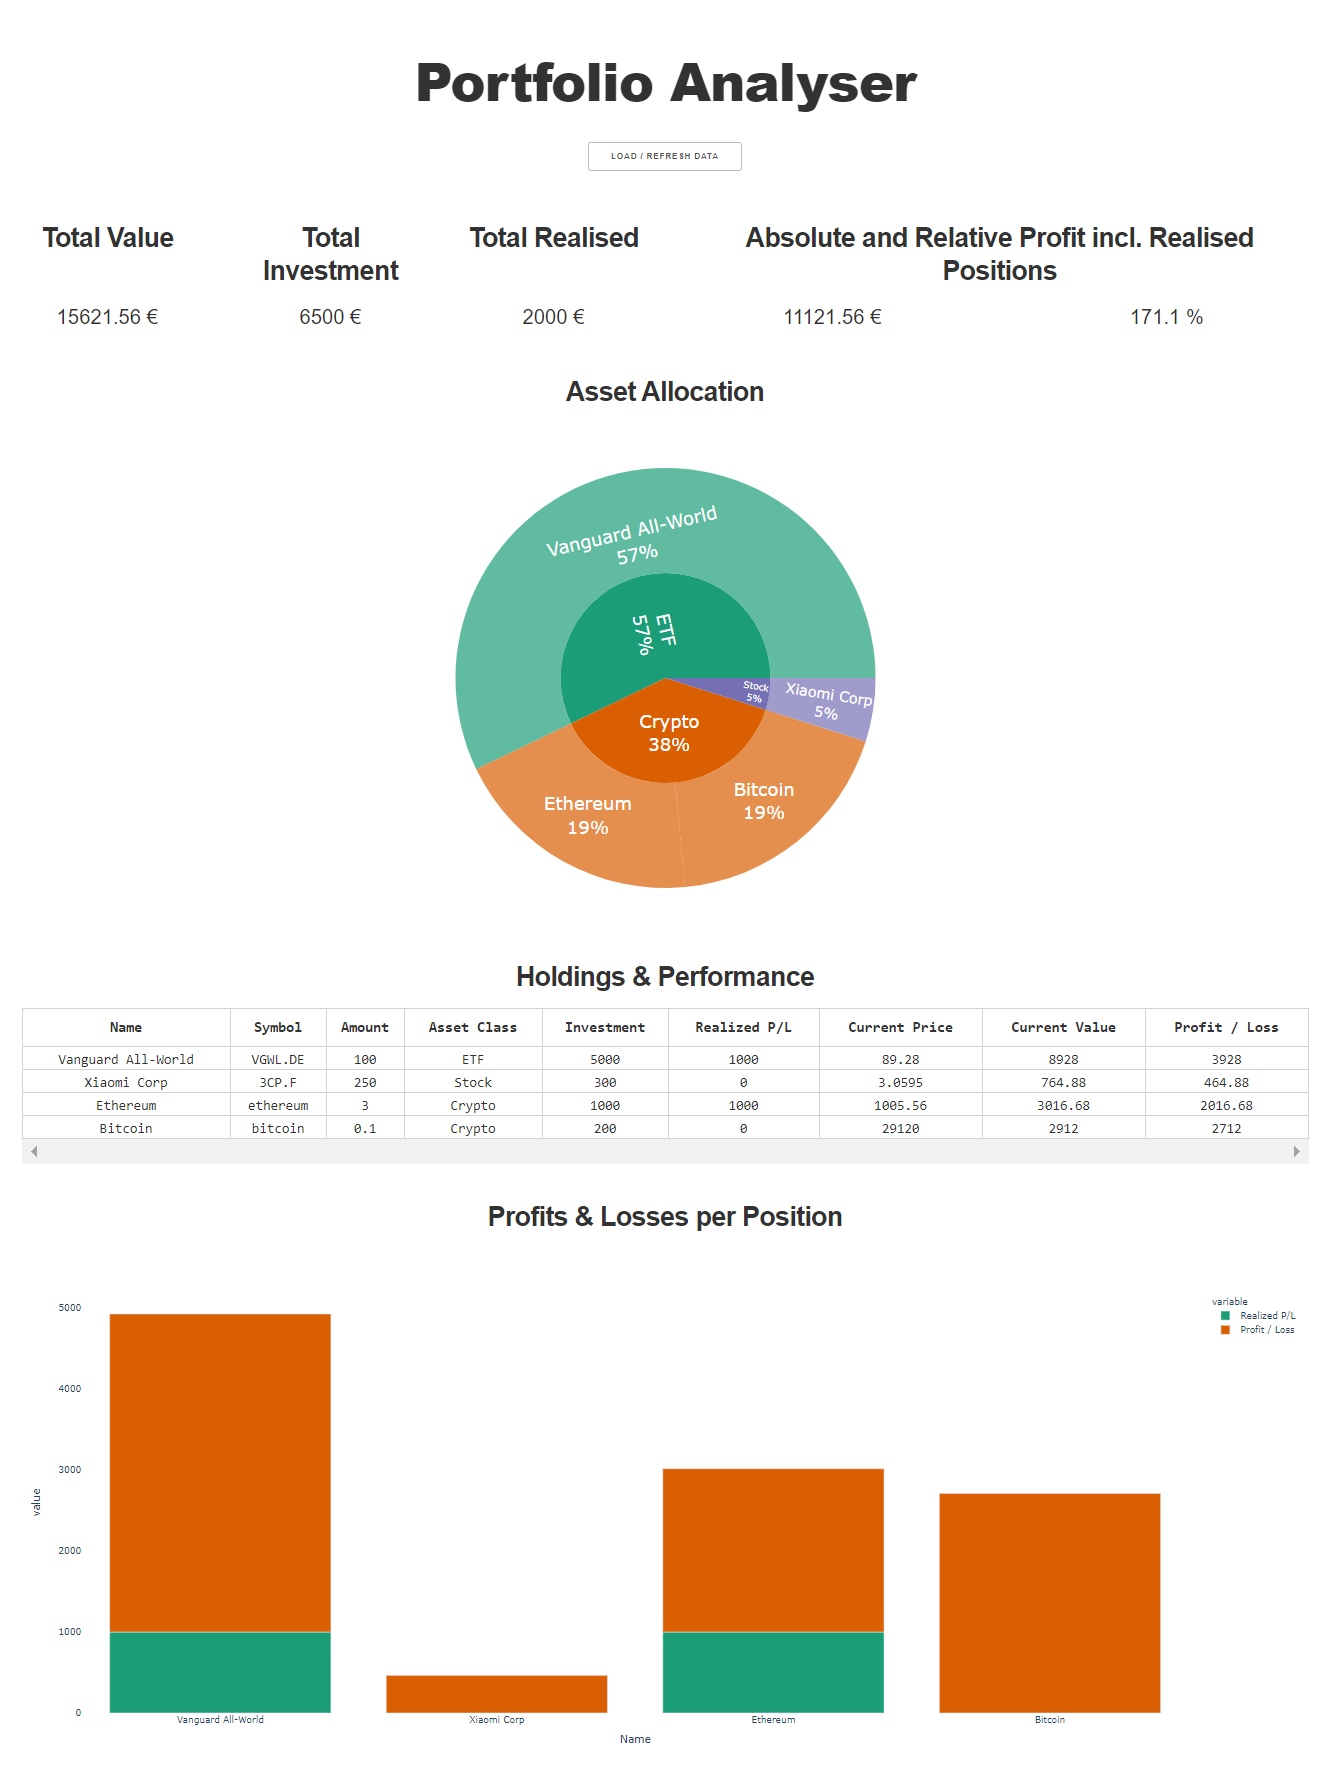
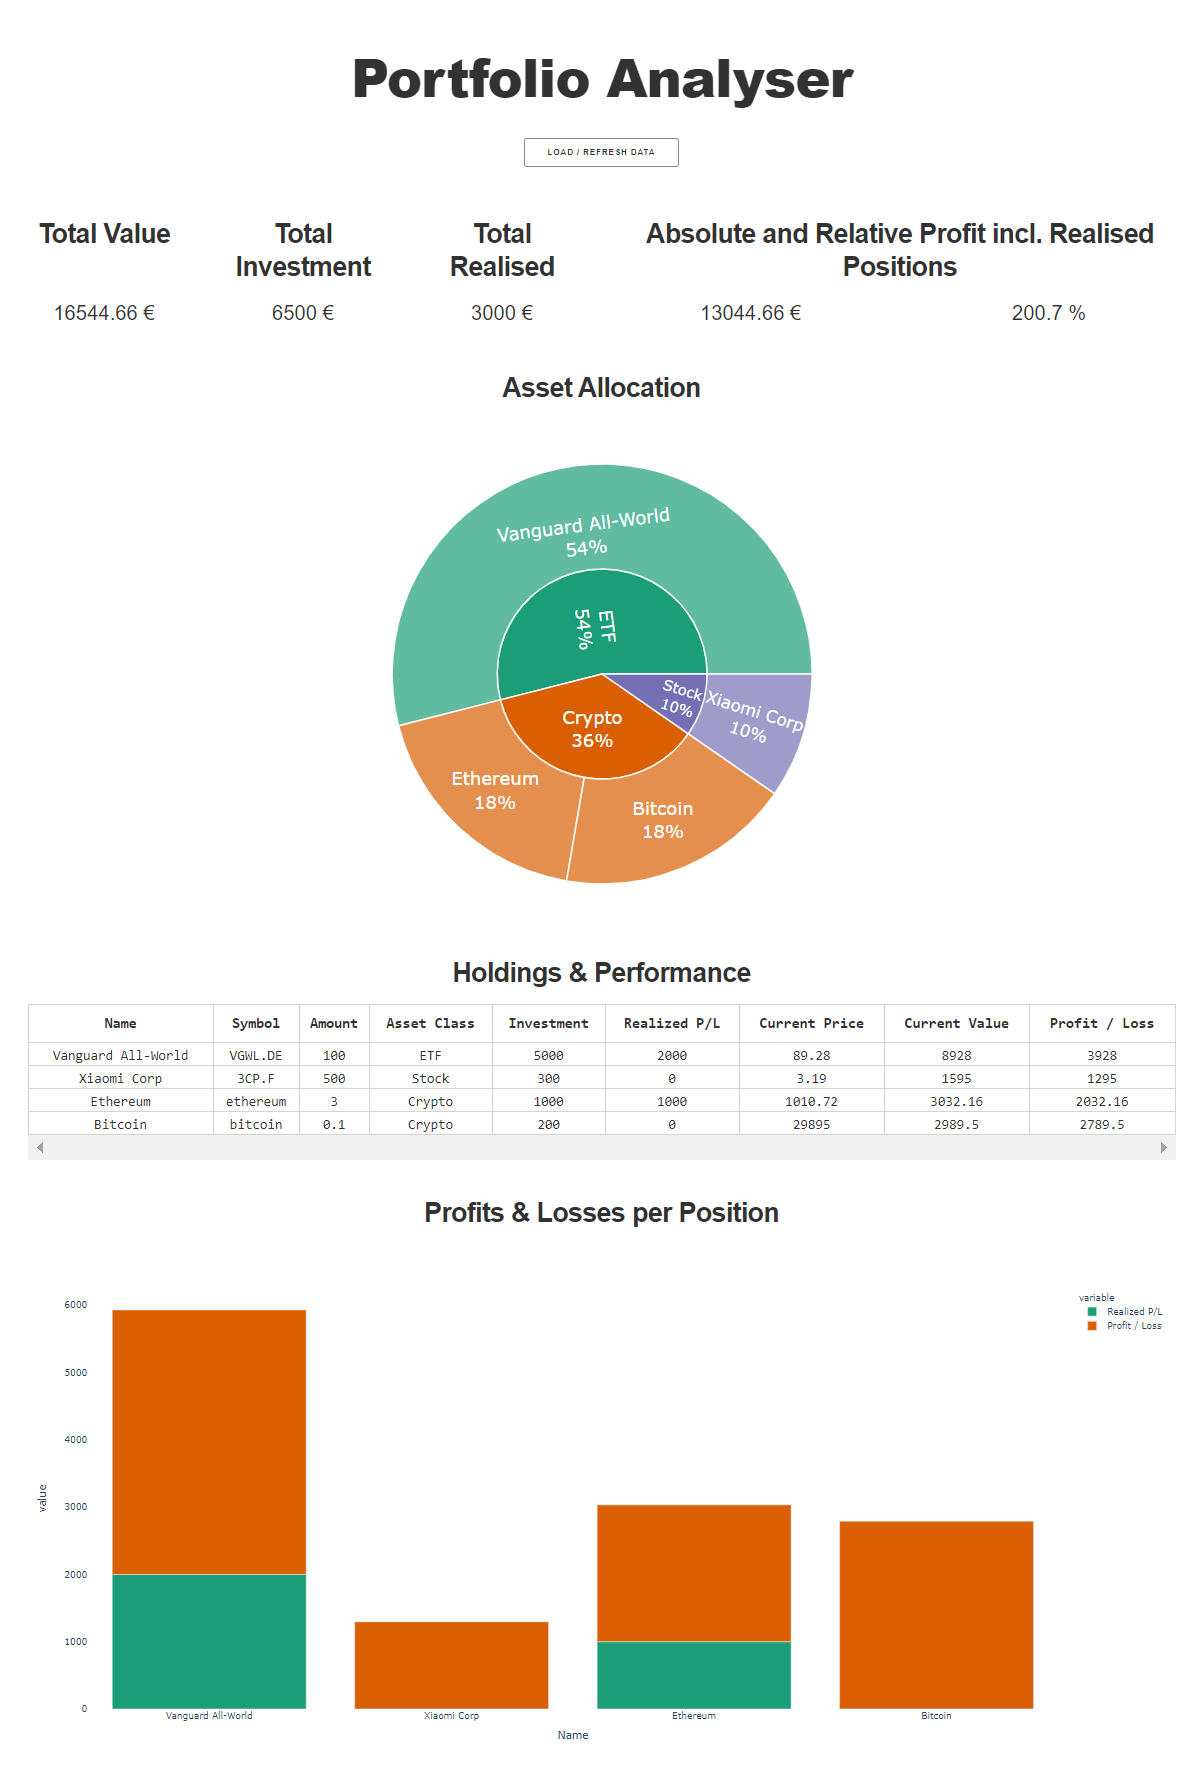
Increased borderlines' width in sunburst-plot

diff --git a/main.py b/main.py
@@ -128,15 +128,26 @@ def update(n_clicks):
     port.update_portfolio()
     new_df = port.portfolio
 
-    allocation = px.sunburst(new_df, values="Current Value", path=["Asset Class", "Name"],
+    allocation = px.sunburst(new_df,
+                             values="Current Value",
+                             path=["Asset Class", "Name"],
                              color_discrete_sequence=px.colors.qualitative.Dark2)
-    allocation.update_traces(textinfo="label+percent entry", insidetextorientation='auto',  textfont_size=24)
-    allocation.layout.update({"height": 700}, paper_bgcolor='rgba(0,0,0,0)', plot_bgcolor='rgba(0,0,0,0)')
+    allocation.update_traces(textinfo="label+percent entry",
+                             insidetextorientation='auto',
+                             textfont_size=24,
+                             marker=dict(line=dict(color='#FFFFFF', width=2)))
+    allocation.layout.update({"height": 700},
+                             paper_bgcolor='rgba(0,0,0,0)',
+                             plot_bgcolor='rgba(0,0,0,0)')
 
-    holdings_perf = px.bar(new_df, x="Name", y=["Realized P/L", "Profit / Loss"],
+    holdings_perf = px.bar(new_df,
+                           x="Name",
+                           y=["Realized P/L", "Profit / Loss"],
                            color_discrete_sequence=px.colors.qualitative.Dark2)
     holdings_perf.update_traces(textfont_size=24)
-    holdings_perf.layout.update({"height": 700}, paper_bgcolor='rgba(0,0,0,0)', plot_bgcolor='rgba(0,0,0,0)')
+    holdings_perf.layout.update({"height": 700},
+                                paper_bgcolor='rgba(0,0,0,0)',
+                                plot_bgcolor='rgba(0,0,0,0)')
 
     total_worth = str(port.total_worth)+" €"
     total_invest = str(port.total_investment)+" €"
